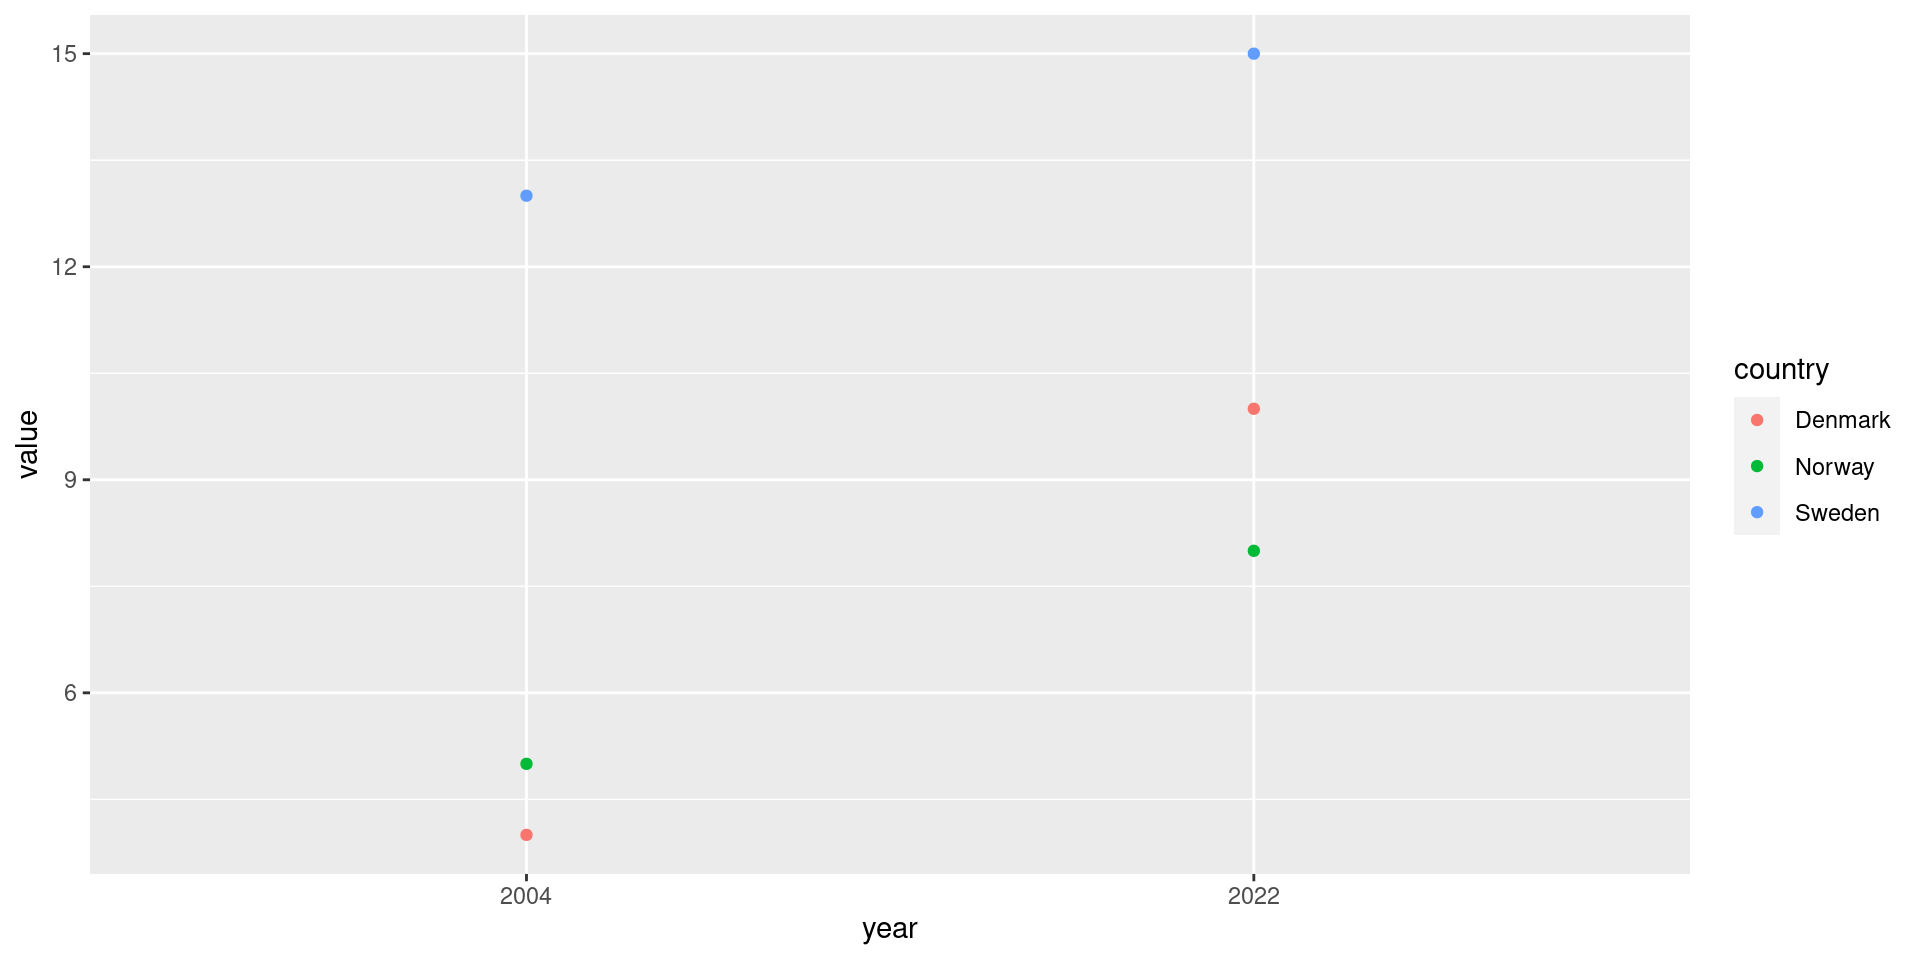
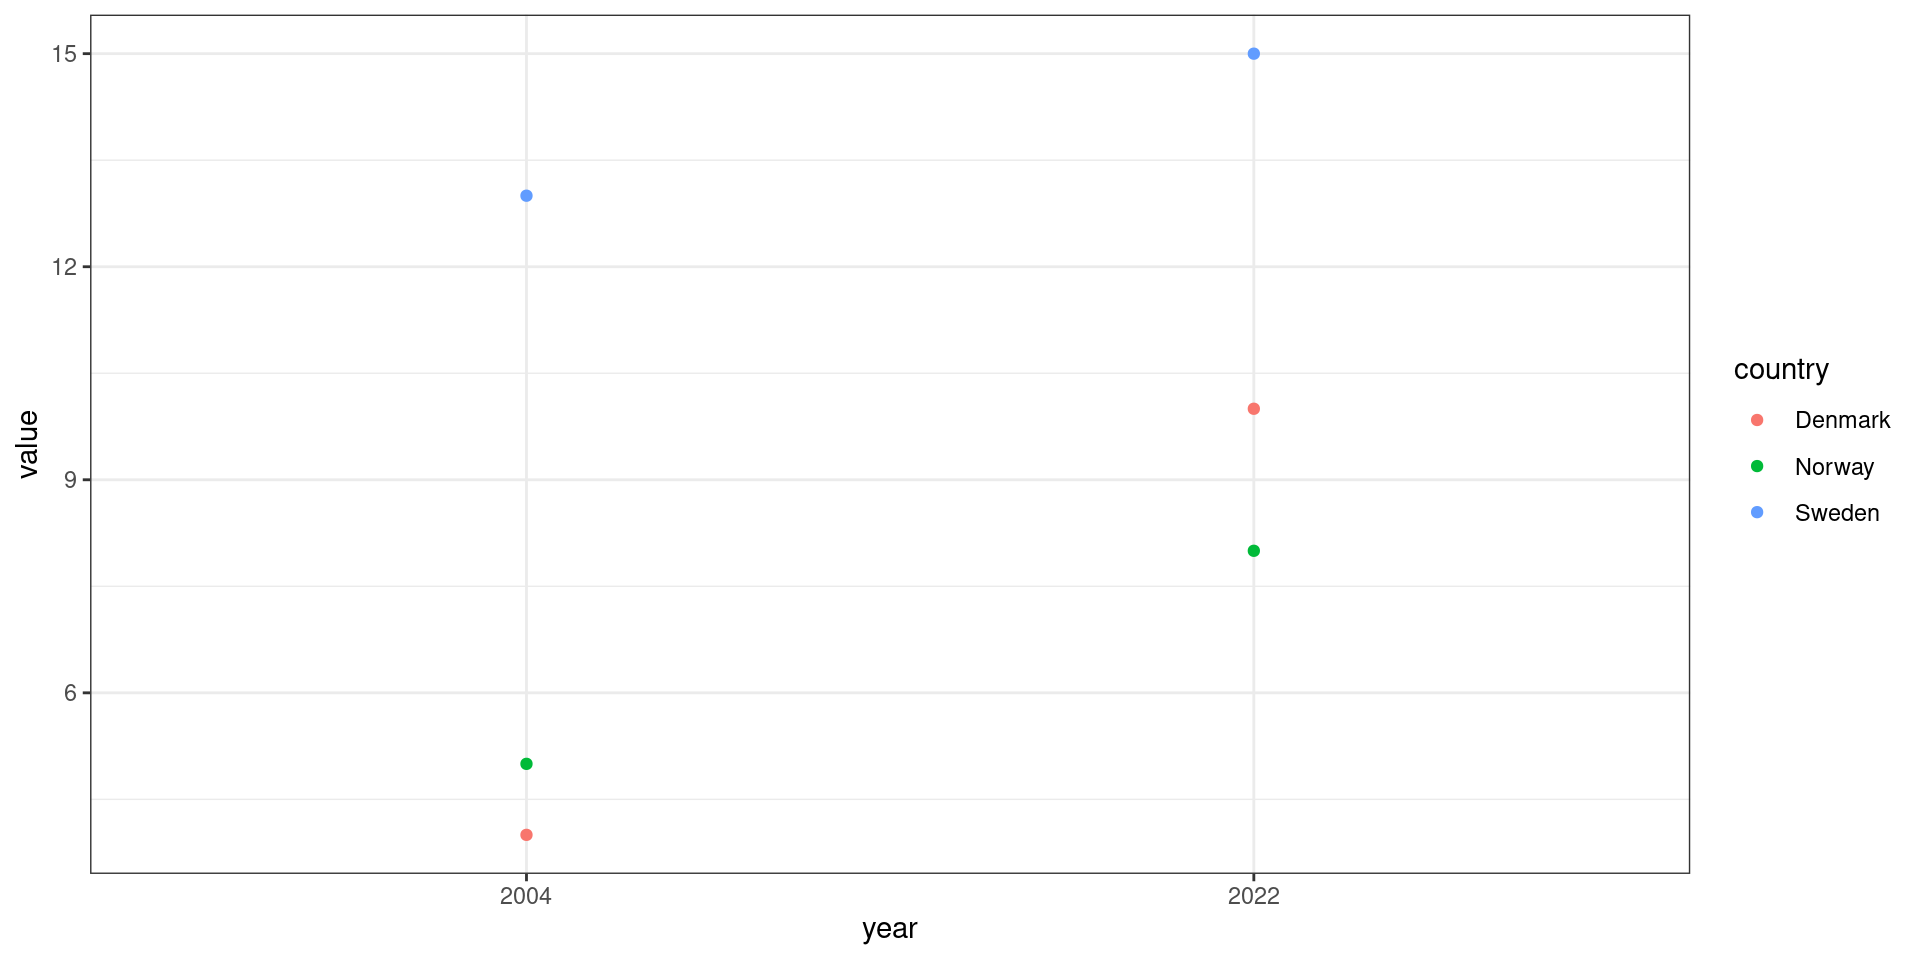
Updated Files

diff --git a/docs/posts/week_1.html b/docs/posts/week_1.html
@@ -502,22 +502,23 @@
 <div class="sourceCode cell-code" id="cb6"><pre class="sourceCode numberSource r number-lines code-with-copy"><code class="sourceCode r"><span id="cb6-1"><a href="#cb6-1"></a>heritage2 <span class="ot">&lt;-</span> heritage <span class="sc">|&gt;</span> </span>
 <span id="cb6-2"><a href="#cb6-2"></a>  <span class="fu">pivot_longer</span>(<span class="sc">!</span>country, <span class="at">names_to =</span> <span class="st">"year"</span>, <span class="at">values_to =</span> <span class="st">"value"</span>)</span>
 <span id="cb6-3"><a href="#cb6-3"></a><span class="fu">ggplot</span>(heritage2, <span class="fu">aes</span>(<span class="at">x =</span> year, <span class="at">y =</span> value, <span class="at">color =</span> country)) <span class="sc">+</span> </span>
-<span id="cb6-4"><a href="#cb6-4"></a>  <span class="fu">geom_point</span>()</span></code><button title="Copy to Clipboard" class="code-copy-button"><i class="bi"></i></button></pre></div>
+<span id="cb6-4"><a href="#cb6-4"></a>  <span class="fu">geom_point</span>() <span class="sc">+</span> <span class="fu">theme_bw</span>()</span></code><button title="Copy to Clipboard" class="code-copy-button"><i class="bi"></i></button></pre></div>
 </details>
 
 </div>
-<img data-src="week_1_files/figure-revealjs/unnamed-chunk-3-1.png" width="960" class="r-stretch"></section>
+<img data-src="week_1_files/figure-revealjs/ex1-1.png" alt="A dot plot showing the number of heritage sites for Denmark, Norway, and Sweden for the years 2004 and 2022. The x-axis contains the year and y-axis contains the number of heritage sites. The plot shows that Sweden had the most sites in 2004 but did not add much since then. Denmark had the lowest number of sites in 2004, but showed the greatest increase of all three. Norway added a few sites since 2004." width="960" class="r-stretch"></section>
 <section id="examples-1" class="slide level2">
 <h2>Examples</h2>
 <div class="cell">
 <details class="code-fold">
 <summary>Code</summary>
 <div class="sourceCode cell-code" id="cb7"><pre class="sourceCode numberSource r number-lines code-with-copy"><code class="sourceCode r"><span id="cb7-1"><a href="#cb7-1"></a><span class="fu">ggplot</span>(heritage2, <span class="fu">aes</span>(country)) <span class="sc">+</span> </span>
-<span id="cb7-2"><a href="#cb7-2"></a>  <span class="fu">geom_bar</span>(<span class="fu">aes</span>(<span class="at">weight =</span> value, <span class="at">fill =</span> year))</span></code><button title="Copy to Clipboard" class="code-copy-button"><i class="bi"></i></button></pre></div>
+<span id="cb7-2"><a href="#cb7-2"></a>  <span class="fu">geom_bar</span>(<span class="fu">aes</span>(<span class="at">weight =</span> value, <span class="at">fill =</span> year)) <span class="sc">+</span> </span>
+<span id="cb7-3"><a href="#cb7-3"></a>  <span class="fu">theme_bw</span>()</span></code><button title="Copy to Clipboard" class="code-copy-button"><i class="bi"></i></button></pre></div>
 </details>
 
 </div>
-<img data-src="week_1_files/figure-revealjs/unnamed-chunk-4-1.png" width="960" class="r-stretch"></section>
+<img data-src="week_1_files/figure-revealjs/ex2-1.png" alt="Demonstrates a stacked barplot of the number of heritage sites for Denmark, Norway, and Sweden for the years 2004 and 2022. The countries are on the x-axis going left to right as Denmark, Norway, and Sweden. The y-axis contains the count of the number of heritage sites. Each bar contains two subbars stacked one on top of each other. 2004 represents the top bar and 2022 represents the bottom bar. The plot shows that Sweden had the most sites in 2004 but did not add much since then. Denmark had the lowest number of sites in 2004, but showed the greatest increase of all three. Norway added a few sites since 2004." width="960" class="r-stretch"></section>
 <section id="examples-2" class="slide level2">
 <h2>Examples</h2>
 <div class="cell">
@@ -531,7 +532,7 @@
 </details>
 
 </div>
-<img data-src="week_1_files/figure-revealjs/unnamed-chunk-5-1.png" width="960" class="r-stretch"></section>
+<img data-src="week_1_files/figure-revealjs/ex3-1.png" alt="Demonstrates a rose pie, a circular plot with each petal represent a category, of the number heritage sites for Denmark, Norway, and Sweden for the years 2004 and 2022. There are 3 petals representing each country. Each petal contains 2 parts, the inner part represent year 2022, and the outer part represents 2004. At the end of the petal, the name of the country represented with the count, and total percentage. The plot shows that Sweden had the most sites in 2004 but did not add much since then. Denmark had the lowest number of sites in 2004, but showed the greatest increase of all three. Norway added a few sites since 2004." width="960" class="r-stretch"></section>
 <section id="examples-3" class="slide level2">
 <h2>Examples</h2>
 <div class="cell">
@@ -556,7 +557,7 @@
 </details>
 
 </div>
-<img data-src="week_1_files/figure-revealjs/unnamed-chunk-6-1.png" width="960" class="r-stretch"></section>
+<img data-src="week_1_files/figure-revealjs/ex4-1.png" alt="A Sankey plot is displayed to show the relationship between country, year, and heritage sites for Denmark, Sweden, Norway for the years 2004 and 2022. The left component contains the countries with 3 separate bars going from top to bottom with Sweden top, Norway middle, and Denmark bottom. The left bars trasnfer to right bars representing years. There are 2 bars vertically stacked with 2022 on top and 2004 at the bottom. The plot shows that Sweden had the most sites in 2004 but did not add much since then. Denmark had the lowest number of sites in 2004, but showed the greatest increase of all three. Norway added a few sites since 2004." width="960" class="r-stretch"></section>
 <section id="examples-4" class="slide level2">
 <h2>Examples</h2>
 <div class="cell">
@@ -572,7 +573,7 @@
 </details>
 
 </div>
-<img data-src="week_1_files/figure-revealjs/unnamed-chunk-7-1.png" width="960" class="r-stretch"></section>
+<img data-src="week_1_files/figure-revealjs/ex5-1.png" alt="A tree map is displayed showing the number of heritage sites for Sweden, Denmark, and Norway. Contrary to the name, a partitioned rectangle is displayed with each partition indicating the country. The partitions are further partitioned to display separate sub-partitions indicating the separate years. The plot shows that Sweden had the most sites in 2004 but did not add much since then. Denmark had the lowest number of sites in 2004, but showed the greatest increase of all three. Norway added a few sites since 2004." width="960" class="r-stretch"></section>
 <section id="examples-5" class="slide level2">
 <h2>Examples</h2>
 <div class="cell">
@@ -590,11 +591,12 @@
 <span id="cb11-10"><a href="#cb11-10"></a>  <span class="fu">ggdonut</span>(<span class="at">group_key =</span> <span class="st">"country"</span>,</span>
 <span id="cb11-11"><a href="#cb11-11"></a>          <span class="at">count_type =</span> <span class="st">"full"</span>) <span class="sc">+</span></span>
 <span id="cb11-12"><a href="#cb11-12"></a>  <span class="fu">ggtitle</span>(<span class="st">"Year 2022"</span>)</span>
-<span id="cb11-13"><a href="#cb11-13"></a>p1 <span class="sc">+</span> p2</span></code><button title="Copy to Clipboard" class="code-copy-button"><i class="bi"></i></button></pre></div>
+<span id="cb11-13"><a href="#cb11-13"></a>p1 <span class="sc">+</span> p2 <span class="sc">+</span></span>
+<span id="cb11-14"><a href="#cb11-14"></a>  <span class="fu">plot_layout</span>(<span class="at">guides =</span> <span class="st">'collect'</span>)</span></code><button title="Copy to Clipboard" class="code-copy-button"><i class="bi"></i></button></pre></div>
 </details>
 
 </div>
-<img data-src="week_1_files/figure-revealjs/unnamed-chunk-8-1.png" width="960" class="r-stretch"></section></section>
+<img data-src="week_1_files/figure-revealjs/ex6-1.png" alt="Two separte doughnut plots are displayed below to demonstrate the number of heritage sites for Sweden, Denmark, and Norway for the years 2004 and 2022. Dougnut plots are circular pie chars with a hollowed center. The left hand has the 2004 doughnut plot. The right side has the 2022 doughnut plot. Each dougnut plot displays the count for each country and the center contains the total count. The plot shows that Sweden had the most sites in 2004 but did not add much since then. Denmark had the lowest number of sites in 2004, but showed the greatest increase of all three. Norway added a few sites since 2004." width="960" class="r-stretch"></section></section>
 <section>
 <section id="graphing-examples" class="title-slide slide level1 center">
 <h1>Graphing Examples</h1>

diff --git a/docs/index.html b/docs/index.html
@@ -182,7 +182,7 @@ ul.task-list li input[type="checkbox"] {
 
 <div class="quarto-listing quarto-listing-container-default" id="listing-listing">
 <div class="list quarto-listing-default">
-<div class="quarto-post image-right" data-index="0" data-categories="sp2024" data-listing-date-sort="1707206400000" data-listing-file-modified-sort="1707435410374" data-listing-date-modified-sort="NaN" data-listing-reading-time-sort="5" data-listing-word-count-sort="946">
+<div class="quarto-post image-right" data-index="0" data-categories="sp2024" data-listing-date-sort="1707206400000" data-listing-file-modified-sort="1707447563959" data-listing-date-modified-sort="NaN" data-listing-reading-time-sort="9" data-listing-word-count-sort="1661">
 <div class="thumbnail">
 <p><a href="./posts/week_1.html" class="no-external"></a></p><a href="./posts/week_1.html" class="no-external">
 <p><img src="./posts/img/post1.png" class="thumbnail-image"></p>
